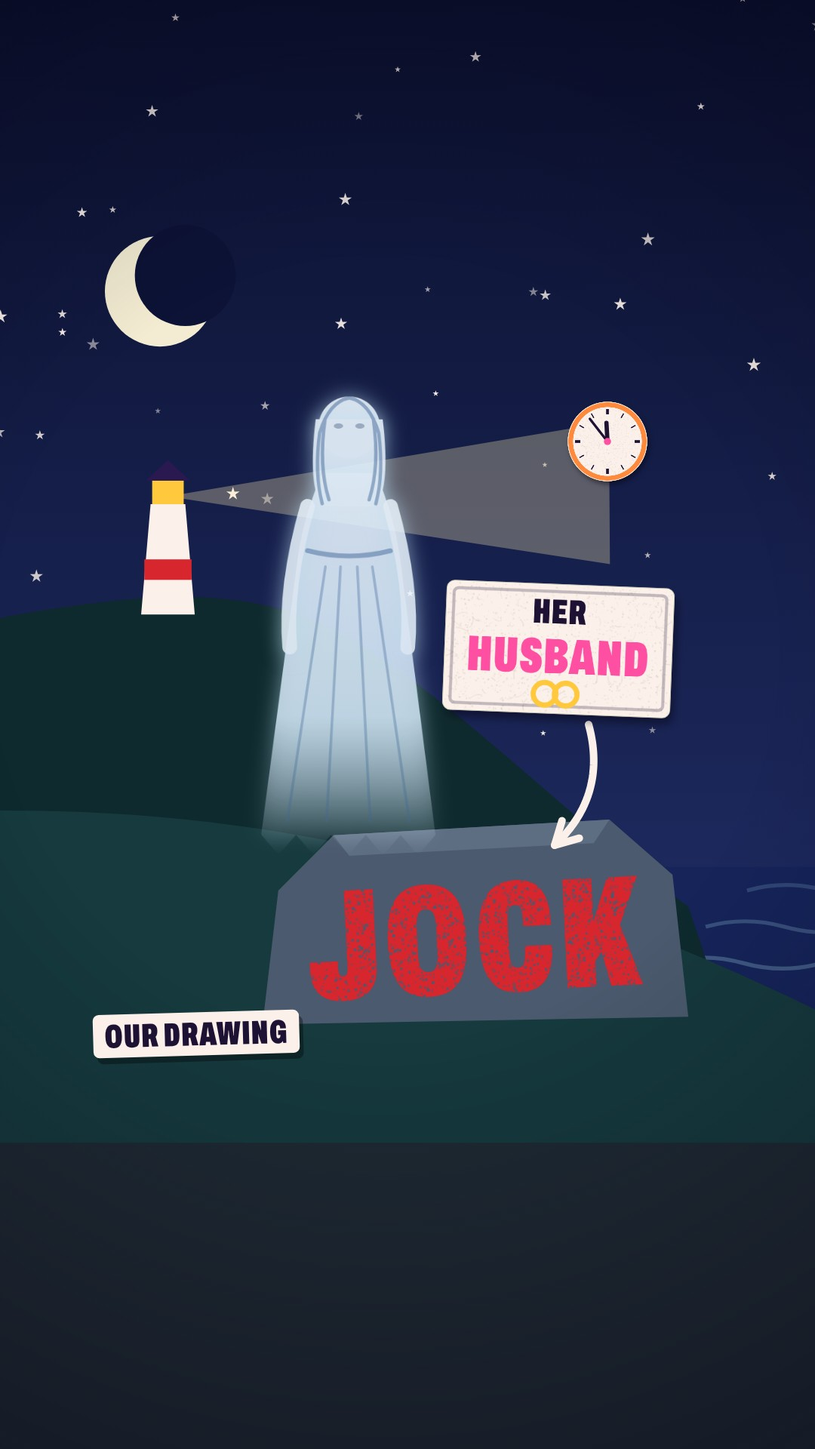
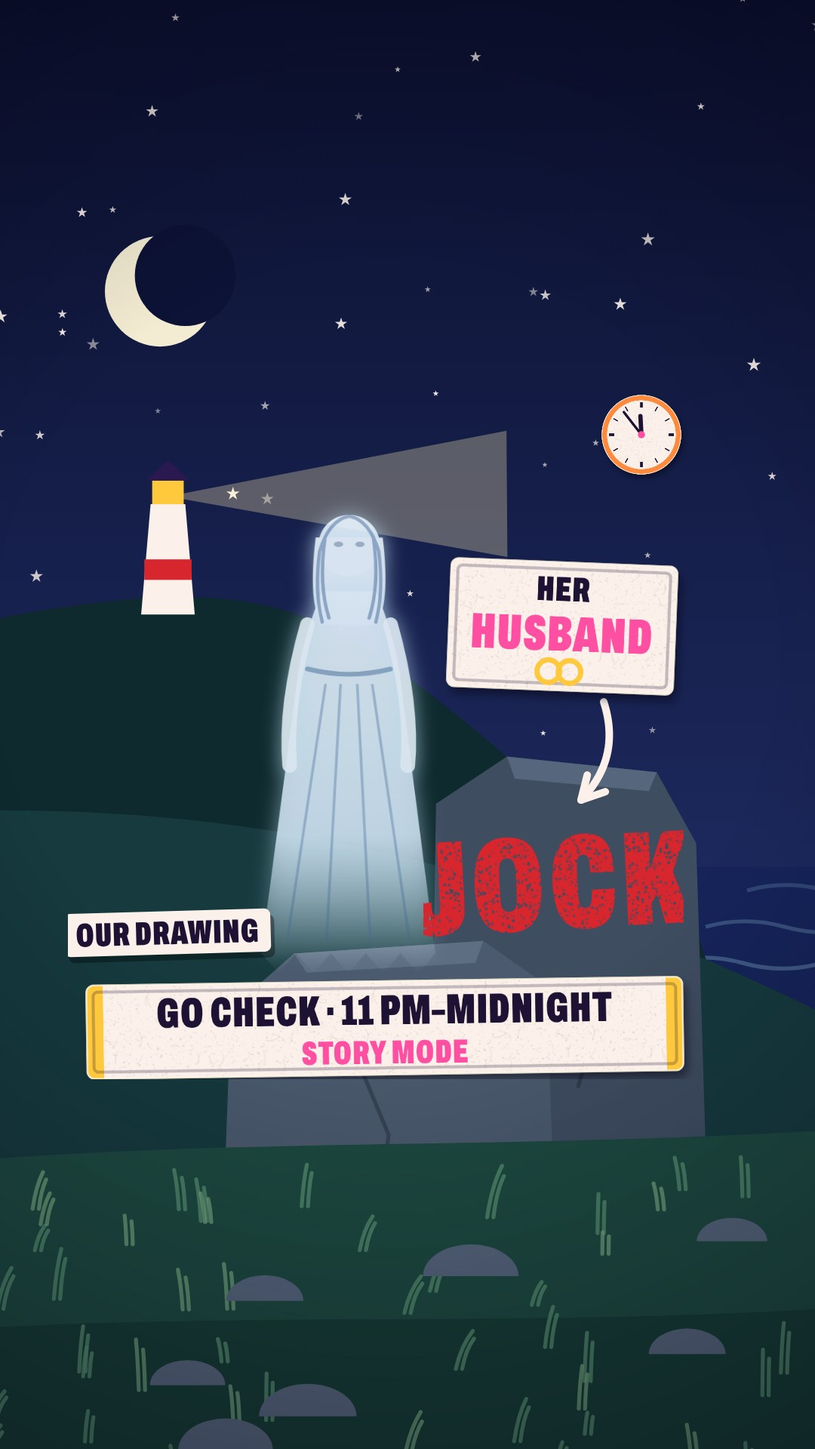
Delta: gta-secrets fresh jury r3 7.5/Truth 8.5 PASS, r3 picture fixes applied; queued for Sun Nov 15 23:00 ET
Claude-Session: https://claude.ai/code/session_0183o4NZ6CSecHxPQVo1mXv7

diff --git a/film/gta-secrets/film.js b/film/gta-secrets/film.js
@@ -500,7 +500,9 @@
     if (L === 'bg') {
       iceSheet(g, -200, -200, 1280, 2120, 3, '#f2fdff', '#9ee3f3');
       /* the dark shape under the ice: big, near-black, hard-edged (jury r1: 85 % ink, 6 px blur) */
-      g.save(); g.globalAlpha = .88; g.translate(510, 1010 + 6 * osc(t, 2, 1)); g.rotate(-.12); g.drawImage(P.alienDark, -350 * 1.15, -470 * 1.15, 700 * 1.15, 900 * 1.15); g.fillStyle = 'rgba(244,236,214,.7)'; [[-58, -215, .5], [52, -215, -.5]].forEach(function (e) { g.save(); g.translate(e[0] * 1.15, e[1] * 1.15); g.rotate(e[2]); g.beginPath(); g.ellipse(0, 0, 30, 11, 0, 0, TAU); g.fill(); g.restore(); }); g.restore();
+      /* jury r3: no eye highlights (an unreadable shape until ice2), and it is gone by 1.9 s so the 3 SECRETS card never stands on its legs */
+      var af = 1 - sm(t, T.sec - .08, .5);
+      if (af > 0) { g.save(); g.globalAlpha = .88 * af; g.translate(510, 1010 + 6 * osc(t, 2, 1)); g.rotate(-.12); g.drawImage(P.alienDark, -350 * 1.15, -470 * 1.15, 700 * 1.15, 900 * 1.15); g.restore(); }
       /* a pale film of ice over it */
       g.fillStyle = 'rgba(226,248,255,.08)'; g.fillRect(-200, -200, 1480, 2320);
       /* the torch pool glides in from the left and settles on the shape on "secrets" */
@@ -599,7 +601,7 @@
   function ovBridge(g, t) {
     chipIn(g, t, 'FIRST MISSION', 330, 570, T.ch1a, T.ch1out, { bg: HOT, px: 52, rot: -.03, from: -30 });
     chipIn(g, t, 'NORTH YANKTON', 640, 660, T.ch1b, T.ch1out, { bg: TEAL, px: 52, rot: .02, from: -30, ph: 2 });
-    chipIn(g, t, 'OUR DRAWING', 720, 1370, T.our1, T.F2.drop - .05, { bg: CREAM, px: 44, rot: .03, from: 30 });
+    chipIn(g, t, 'OUR DRAWING', 228, 1352, T.our1, T.F2.drop - .05, { bg: CREAM, px: 44, rot: .02, from: 30 });
     /* jury r1: the stamp lands on the first hit and is gone before the SECRET 2 sheet arrives (it sits under the foil layer too) */
     stampAt(g, t, P.stNo, 510, 760, T.HITS[0], T.F2.drop - .05, -.06, 1);
   }
@@ -641,9 +643,9 @@
   var MB = [[230, 860], [410, 860], [610, 860], [790, 860]], MS = [[250, 1175], [510, 1175], [770, 1175]];
   function wMural(g, t, L) {
     if (L === 'bg') {
-      g.fillStyle = '#6d5a73'; g.fillRect(-600, -1260, 2280, 4400);
+      g.fillStyle = '#6d5a73'; g.fillRect(-1200, -1260, 3600, 4400);
       var r = mulberry(61); g.strokeStyle = 'rgba(30,20,40,.25)'; g.lineWidth = 3;
-      for (var y = -1260; y < 3140; y += 70) { g.beginPath(); g.moveTo(-600, y); g.lineTo(1680, y); g.stroke(); for (var x = -600 + ((y + 1260) / 70 % 2) * 70; x < 1680; x += 140) { g.beginPath(); g.moveTo(x, y); g.lineTo(x, y + 70); g.stroke(); } }
+      for (var y = -1260; y < 3140; y += 70) { g.beginPath(); g.moveTo(-1200, y); g.lineTo(2400, y); g.stroke(); for (var x = -1200 + ((y + 1260) / 70 % 2) * 70; x < 2400; x += 140) { g.beginPath(); g.moveTo(x, y); g.lineTo(x, y + 70); g.stroke(); } }
       /* the painted wall panel */
       g.fillStyle = STONE; g.fillRect(110, 470, 800, 900); g.fillStyle = 'rgba(0,0,0,.18)'; g.fillRect(110, 1370, 800, 12);
       for (var i = 0; i < 900; i++) { g.fillStyle = 'rgba(90,70,50,' + (.03 + r() * .08).toFixed(3) + ')'; g.fillRect(110 + r() * 800, 470 + r() * 900, 2 + r() * 6, 2 + r() * 6); }
@@ -674,26 +676,24 @@
       if (t >= q[0] && t < q[0] + .45) KIT.impact(g, b[0], b[1], t - q[0], .55, HOT);
     });
     if (t >= T.jq - .02 && t < T.n3 + .45) { g.save(); g.globalAlpha *= 1 - sm(t, T.n3 + .15, .25); slam(g, '?', 858, 1080, 150, t - T.jq, { col: TEAL, lw: 13, rot: .12 + .03 * osc(t, 9, 2) }); g.restore(); }
-    /* mur3: pins and red string out to the fan theories */
-    if (t >= T.n1 - .02) {
-      /* jury r2: only readings the sources report (BRIEF facts 7 and 11): 100% completion (PC Gamer 2016, GamesRadar+ 2025) and "just put in there to mess with people" (Hinchliffe, GamesRadar+ 2024) */
-      var NOTES = [[T.n1, P.th1, 300, 993, -.02], [T.n2, P.th2, 720, 993, .02]];
-      NOTES.forEach(function (n) {
-        if (t < n[0] - .02) return; var k = sm(t, n[0], .3), jig = t >= T.argue ? .06 * Math.exp(-(t - T.argue) * 3) * Math.sin((t - T.argue) * 30) : 0;
-        g.save(); g.strokeStyle = RED; g.lineWidth = 6; g.beginPath(); g.moveTo(510, 770); g.lineTo(lerp(510, n[2], k), lerp(770, n[3] - 62, k)); g.stroke(); g.restore();
-        if (k >= 1) {
-          var s = kn(t, n[0] + .3, .08); g.save(); g.translate(n[2], n[3]); g.rotate(n[4] + jig); g.scale(s, s); NOREC = nr || t < n[0] + .4; putW(g, n[1], 0, 0); NOREC = nr; g.restore();
-          g.fillStyle = RED; circle(g, n[2], n[3] - 62, 12); g.fill(); g.fillStyle = 'rgba(255,255,255,.5)'; circle(g, n[2] - 4, n[3] - 66, 4); g.fill();
-        }
-        g.fillStyle = RED; circle(g, 510, 770, 12); g.fill();
-      });
-    }
   }
   function ovMural(g, t) {
     var zo = sm(t, T.mzo, .45);
-    chipIn(g, t, 'OUR DRAWING · AS PC GAMER DESCRIBES IT', 510, lerp(1360, 1222, zo), T.ourM, T.F3.drop + .3, { bg: CREAM, px: 40, from: 30 });
-    /* jury r2: clear of the caption tape (≥ 16 px), tucked on the board's top edge */
-    chipIn(g, t, 'FAN THEORIES', 510, 568, T.fan, T.F3.drop + .3, { bg: HOT, px: 52, rot: -.03, from: -30 });
+    chipIn(g, t, 'OUR DRAWING · AS PC GAMER DESCRIBES IT', 510, lerp(1360, 1150, zo), T.ourM, T.F3.drop + .3, { bg: CREAM, px: 40, from: 30 });
+    /* jury r3: the board steps back to the left and the two readings hang beside it at full size, on red string from the eye,
+       each with its own source: FAN THEORIES over 100% completion; Ben Hinchliffe (ex-Rockstar, GamesRadar+ 2024) over "mess with you" */
+    if (t >= T.n1 - .02 && t < T.F3.drop + .35) {
+      var C = camOf('mural', t), ex = C.cx + C.dx + (906 - C.cx) * C.s, ey = C.cy + C.dy + (680 - C.cy) * C.s, nr0 = NOREC;
+      [[T.n1, P.th1, 745, 735, -.02], [T.n2, P.th2, 745, 985, .02]].forEach(function (n) {
+        if (t < n[0] - .02) return; var k = sm(t, n[0], .3), jig = t >= T.argue ? .06 * Math.exp(-(t - T.argue) * 3) * Math.sin((t - T.argue) * 30) : 0, px = n[2] - 176, py = n[3] + 10;
+        g.save(); g.globalAlpha *= 1 - sm(t, T.F3.drop + .1, .2); g.strokeStyle = RED; g.lineWidth = 5; g.beginPath(); g.moveTo(ex, ey); g.lineTo(lerp(ex, px, k), lerp(ey, py, k)); g.stroke();
+        if (k >= 1) {
+          var s1 = kn(t, n[0] + .3, .08); g.save(); g.translate(n[2], n[3]); g.rotate(n[4] + jig); g.scale(s1, s1); NOREC = nr0 || t < n[0] + .4; putW(g, n[1], 0, 0); NOREC = nr0; g.restore();
+          g.fillStyle = RED; circle(g, px, py, 12); g.fill(); g.fillStyle = 'rgba(255,255,255,.5)'; circle(g, px - 4, py - 4, 4); g.fill();
+        }
+        g.fillStyle = RED; circle(g, ex, ey, 11); g.fill(); g.restore();
+      });
+    }
     /* jury r1: the stake, sourced (GamesRadar+, 2024-11-05: a 44,000-member subreddit, "no one is giving up"); slaps on at "44,000", pinned in the gap after "argue" */
     if (t >= T.n44 - .02 && t < T.F3.drop + .4) {
       var k = cd(t, T.n44, 13), nr = NOREC, pk = cd(t, T.pinT, 18), jg = t >= T.pinT ? .05 * Math.exp(-(t - T.pinT) * 5) * Math.sin((t - T.pinT) * 34) : 0;
@@ -716,7 +716,8 @@
 
   /* =========================== WORLD 5: Mount Gordo at night, the ghost =========================== */
   var STARS = (function () { var r = mulberry(88), s = []; for (var i = 0; i < 60; i++) s.push([r() * 1380 - 150, r() * 1100 - 100, 2 + r() * 4, r() * TAU, 1 + Math.floor(r() * 4)]); return s; })();
-  var RKY = 1180;
+  /* jury r3: the ghost and her rock sit 150 px lower; JOCK is painted on a standing stone beside her (JX, JY) */
+  var RKY = 1330, JX = 724, JY = 1170;
   function wNight(g, t, L) {
     if (L === 'bg') {
       var gr = g.createLinearGradient(0, -200, 0, 1500); gr.addColorStop(0, '#070b24'); gr.addColorStop(1, '#22306b'); g.fillStyle = gr; g.fillRect(-300, -300, 1680, 2620);
@@ -727,17 +728,26 @@
       for (var i = 0; i < 9; i++) { var y = 1180 + i * 46, x = (i * 173 + 120 * t * (1 + i % 3) / 4) % 400 - 400; g.strokeStyle = 'rgba(159,211,230,' + (.2 + .05 * (i % 3)) + ')'; g.lineWidth = 5; for (var xx = x; xx < 1500; xx += 400) { g.beginPath(); g.moveTo(xx, y); g.quadraticCurveTo(xx + 50, y - 14, xx + 100, y); g.quadraticCurveTo(xx + 150, y + 14, xx + 200, y); g.stroke(); } }
       /* Mount Gordo: a dark headland on the left with the lighthouse */
       g.fillStyle = '#0f2a2e'; g.beginPath(); g.moveTo(-300, 1500); g.lineTo(-300, 900); g.bezierCurveTo(100, 820, 300, 760, 470, 860); g.bezierCurveTo(620, 950, 760, 1100, 900, 1200); g.lineTo(1000, 1500); g.closePath(); g.fill();
-      g.fillStyle = '#163a3e'; g.beginPath(); g.moveTo(-300, 1700); g.lineTo(-300, 1100); g.bezierCurveTo(200, 1040, 600, 1100, 1100, 1350); g.lineTo(1380, 1700); g.closePath(); g.fill();
-      g.fillStyle = '#1f2a33'; g.fillRect(-300, 1500, 1680, 900);
-      /* the rock the ghost stands on */
-      g.fillStyle = '#4b5a6e'; g.beginPath(); g.moveTo(380, RKY); g.lineTo(450, RKY - 70); g.lineTo(800, RKY - 90); g.lineTo(880, RKY - 20); g.lineTo(900, RKY + 160); g.lineTo(360, RKY + 170); g.closePath(); g.fill();
-      g.fillStyle = '#5d6d82'; g.beginPath(); g.moveTo(450, RKY - 70); g.lineTo(800, RKY - 90); g.lineTo(780, RKY - 60); g.lineTo(470, RKY - 44); g.closePath(); g.fill();
+      g.fillStyle = '#163a3e'; g.beginPath(); g.moveTo(-300, 2400); g.lineTo(-300, 1100); g.bezierCurveTo(200, 1040, 600, 1100, 1100, 1350); g.lineTo(1380, 1500); g.lineTo(1380, 2400); g.closePath(); g.fill();
+      /* the standing stone JOCK is painted on, and the low rock the ghost stands on; both run down out of the frame */
+      g.fillStyle = '#3f4d61'; g.beginPath(); g.moveTo(580, JY - 100); g.lineTo(670, JY - 160); g.lineTo(860, JY - 140); g.lineTo(910, JY - 50); g.lineTo(950, 2400); g.lineTo(560, 2400); g.closePath(); g.fill();
+      g.fillStyle = '#56667c'; g.beginPath(); g.moveTo(670, JY - 160); g.lineTo(860, JY - 140); g.lineTo(850, JY - 116); g.lineTo(680, JY - 132); g.closePath(); g.fill();
+      g.fillStyle = '#4b5a6e'; g.beginPath(); g.moveTo(320, RKY); g.lineTo(400, RKY - 70); g.lineTo(640, RKY - 86); g.lineTo(720, RKY - 30); g.lineTo(760, 2400); g.lineTo(280, 2400); g.closePath(); g.fill();
+      g.fillStyle = '#5d6d82'; g.beginPath(); g.moveTo(400, RKY - 70); g.lineTo(640, RKY - 86); g.lineTo(630, RKY - 58); g.lineTo(416, RKY - 46); g.closePath(); g.fill();
+      g.strokeStyle = 'rgba(20,28,40,.35)'; g.lineWidth = 5; g.beginPath(); g.moveTo(470, RKY + 40); g.lineTo(520, RKY + 160); g.lineTo(500, RKY + 300); g.moveTo(800, JY + 120); g.lineTo(760, JY + 260); g.stroke();
+      /* jury r3: the foreground bank fills the bottom of the frame (grass in the wind, a few stones) instead of a flat navy floor */
+      g.fillStyle = '#1d4a40'; g.beginPath(); g.moveTo(-300, 1560); g.bezierCurveTo(200, 1470, 700, 1530, 1380, 1460); g.lineTo(1380, 2400); g.lineTo(-300, 2400); g.closePath(); g.fill();
+      g.fillStyle = '#163d35'; g.beginPath(); g.moveTo(-300, 1760); g.bezierCurveTo(300, 1690, 800, 1760, 1380, 1680); g.lineTo(1380, 2400); g.lineTo(-300, 2400); g.closePath(); g.fill();
+      var rg = mulberry(140); g.lineCap = 'round';
+      for (var gi = 0; gi < 70; gi++) { var gx = -100 + rg() * 1280, gy = 1540 + rg() * 520, gh = 26 + rg() * 40, lean = 14 * osc(t, 4, gx * .01) + 8; g.strokeStyle = gi % 3 ? 'rgba(84,140,110,.8)' : 'rgba(120,170,130,.7)'; g.lineWidth = 5;
+        g.beginPath(); g.moveTo(gx, gy); g.quadraticCurveTo(gx + lean * .3, gy - gh * .6, gx + lean, gy - gh); g.moveTo(gx + 8, gy); g.quadraticCurveTo(gx + 8 + lean * .2, gy - gh * .5, gx + 8 + lean * .7, gy - gh * .8); g.stroke(); }
+      for (gi = 0; gi < 9; gi++) { var sx2 = -60 + rg() * 1200, sy2 = 1600 + rg() * 420, sr = 16 + rg() * 26; g.fillStyle = '#56667c'; g.beginPath(); g.ellipse(sx2, sy2, sr * 1.5, sr, 0, Math.PI, TAU); g.fill(); }
       return;
     }
     /* the lighthouse and its sweeping beam (a flat paper wedge) */
     var lx = 240, ly = 830;
     var ba = .45 * Math.sin(TAU * 2 * t / DUR * 3), bk = .22 + .1 * Math.sin(t * 2);
-    g.save(); g.translate(lx, ly - 150); g.rotate(ba); g.fillStyle = 'rgba(255,240,180,' + bk.toFixed(3) + ')'; g.beginPath(); g.moveTo(0, 0); g.lineTo(560, -90); g.lineTo(560, 90); g.closePath(); g.fill(); g.restore();
+    g.save(); g.translate(lx, ly - 150); g.rotate(ba); g.fillStyle = 'rgba(255,240,180,' + bk.toFixed(3) + ')'; g.beginPath(); g.moveTo(0, 0); g.lineTo(430, -80); g.lineTo(430, 80); g.closePath(); g.fill(); g.restore();
     g.fillStyle = CREAM; g.beginPath(); g.moveTo(lx - 34, ly); g.lineTo(lx - 22, ly - 140); g.lineTo(lx + 22, ly - 140); g.lineTo(lx + 34, ly); g.closePath(); g.fill();
     g.fillStyle = RED; g.fillRect(lx - 30, ly - 70, 60, 26); g.fillStyle = GOLD; g.fillRect(lx - 20, ly - 170, 40, 30); g.fillStyle = INK2; g.beginPath(); g.moveTo(lx - 28, ly - 170); g.lineTo(lx, ly - 196); g.lineTo(lx + 28, ly - 170); g.closePath(); g.fill();
     /* the ghost */
@@ -748,27 +758,31 @@
     /* JOCK, brushed in red paint across the rock face */
     if (t >= T.jock - .02 && t < T.mid + .4) {
       var pk = seg(t, T.jock, T.jock + .38), jf = t >= T.mid - .2 ? (Math.sin((t - T.mid) * 70 + 1) > 0 ? 1 : .35) * (1 - seg(t, T.mid, T.mid + .32)) : 1;
-      g.save(); g.globalAlpha *= jf; g.beginPath(); g.rect(370, RKY - 120, 520 * pk + 10, 320); g.clip(); var nr = NOREC; NOREC = nr || pk < 1; putW(g, P.jock, 630, RKY + 60); NOREC = nr; g.restore();
-      if (pk > 0 && pk < 1) { g.save(); g.translate(380 + 500 * pk, RKY + 40 + 30 * Math.sin(pk * 9)); g.rotate(.7); g.fillStyle = '#6b4a2a'; g.fillRect(-10, -120, 20, 110); g.fillStyle = RED; rr(g, -18, -14, 36, 40, 8); g.fill(); g.restore(); }
+      g.save(); g.globalAlpha *= jf; g.beginPath(); g.rect(JX - 160, JY - 120, 320 * pk + 10, 240); g.clip(); var nr = NOREC; NOREC = nr || pk < 1; putW(g, P.jock, JX, JY); NOREC = nr; g.restore();
+      if (pk > 0 && pk < 1) { g.save(); g.translate(JX - 150 + 300 * pk, JY - 20 + 30 * Math.sin(pk * 9)); g.rotate(.7); g.fillStyle = '#6b4a2a'; g.fillRect(-10, -120, 20, 110); g.fillStyle = RED; rr(g, -18, -14, 36, 40, 8); g.fill(); g.restore(); }
     }
   }
   function ovNight(g, t) {
     if (t >= T.E0) return;
     chipIn(g, t, 'MOUNT GORDO', 300, 1360, T.ch3, T.gz + .2, { bg: TEAL, px: 58, rot: -.03, from: 40 });
     /* jury r2: every secret is tagged the same way */
-    chipIn(g, t, 'OUR DRAWING', 260, 1370, T.gz + .45, T.E0 - .1, { bg: CREAM, px: 44, rot: -.02, from: 30 });
+    chipIn(g, t, 'OUR DRAWING', 222, 1236, T.gz + .45, T.E0 - .1, { bg: CREAM, px: 44, rot: -.02, from: 30 });
     /* the clock: hands spin to 11:00 and land on "eleven" */
     clock11(g, t);
     /* gho3: an arrow from the tag to JOCK, the tag HER HUSBAND with two rings */
-    if (t >= T.arr - .02 && t < T.mid + .3) { g.save(); g.globalAlpha *= 1 - seg(t, T.mid, T.mid + .25); KIT.arrow(g, 780, 960, 735, 1120, sm(t, T.arr, .3), CREAM, 10, -.3); g.restore(); }
+    if (t >= T.arr - .02 && t < T.mid + .3) { g.save(); g.globalAlpha *= 1 - seg(t, T.mid, T.mid + .25); KIT.arrow(g, 800, 930, 770, 1060, sm(t, T.arr, .3), CREAM, 10, -.3); g.restore(); }
+    /* jury r3: the takeaway, the DM-able task: go and look tonight */
+    if (t >= T.plate - .02) {
+      var pk2 = cd(t, T.plate, 12), nr3 = NOREC; g.save(); g.translate(510, 1362 + (1 - pk2) * 70); g.rotate(-.015); g.globalAlpha *= fin(t, T.plate, .1) * (1 - seg(t, T.E0 - .1, T.E0)); var ps2 = kn(t, T.plate + .1, .05); g.scale(ps2, ps2); NOREC = nr3 || pk2 < .98; putW(g, P.plate, 0, 0); NOREC = nr3; g.restore();
+    }
     if (t >= T.husb - .02) {
       /* held still (no sway) so the screenshot reads */
-      var hk = cd(t, T.husb, 13), nr2 = NOREC; g.save(); g.translate(740, 860 + (1 - hk) * -40); g.rotate(.04); g.globalAlpha *= fin(t, T.husb, .08); NOREC = nr2 || hk < .98; putW(g, P.husb, 0, 0); NOREC = nr2; g.restore();
+      var hk = cd(t, T.husb, 13), nr2 = NOREC; g.save(); g.translate(745, 830 + (1 - hk) * -40); g.rotate(.04); g.globalAlpha *= fin(t, T.husb, .08); NOREC = nr2 || hk < .98; putW(g, P.husb, 0, 0); NOREC = nr2; g.restore();
     }
   }
   function clock11(g, t) {
     if (t < T.clk0 - .02 || t >= T.E0) return;
-    var k = cd(t, T.clk0, 10), o = sm(t, T.clkOut, .4), x = lerp(760, 805, o), y = lerp(610, 585, o), s = lerp(.4, .82, k) * lerp(1, .58, o) * kn(t, T.mid, .12);
+    var k = cd(t, T.clk0, 10), o = sm(t, T.clkOut, .4), x = lerp(790, 850, o), y = lerp(610, 576, o), s = lerp(.4, .82, k) * lerp(1, .58, o) * kn(t, T.mid, .12);
     g.save(); g.globalAlpha *= fin(t, T.clk0, .1); g.translate(x, y); g.scale(s, s); put(g, P.clockFace, 0, 0);
     if (t >= T.mid) { g.strokeStyle = HOT; g.lineWidth = 14; g.globalAlpha *= 1 - seg(t, T.mid, T.mid + .5); circle(g, 0, 0, 110 + 90 * eo(seg(t, T.mid, T.mid + .5))); g.stroke(); g.globalAlpha = 1; }
     /* the minute hand turns five times from 6:00 and lands on 12 at 11:00, creeps through the hour, and strikes 12:00 at midnight (jury r1) */
@@ -778,8 +792,8 @@
     g.lineWidth = 7; g.beginPath(); g.moveTo(0, 0); g.lineTo(Math.cos(am) * 80, Math.sin(am) * 80); g.stroke(); g.fillStyle = HOT; circle(g, 0, 0, 10); g.fill();
     g.restore();
     /* the time tag pops only once the hands have landed */
-    chipIn(g, t, '11 PM', 760, 770, T.c11, T.clkOut, { bg: GOLD, px: 64, rot: -.03, from: -20 });
-    chipIn(g, t, 'GAME TIME', 760, 850, T.c11 + .12, T.clkOut, { bg: CREAM, px: 42, rot: .02, from: -20, ph: 3 });
+    chipIn(g, t, '11 PM', 790, 770, T.c11, T.clkOut, { bg: GOLD, px: 64, rot: -.03, from: -20 });
+    chipIn(g, t, 'GAME TIME', 790, 850, T.c11 + .12, T.clkOut, { bg: CREAM, px: 42, rot: .02, from: -20, ph: 3 });
   }
 
   /* =========================== WORLD 6: GTA 6, Nov 19 2026 =========================== */
@@ -805,14 +819,22 @@
       if (t >= T.coinE - .02) { var ck = cd(t, T.coinE, 10); g.save(); ownClip(g); g.translate(lerp(1000, 812, ck) + 10 * Math.sin(t * 6), 1200 + 14 * Math.sin(t * 4.6)); g.rotate(-.5 + .2 * Math.sin(t * 5)); g.scale(1.2, 1.2); put(g, P.coin, 0, 0); g.restore(); }
     }
   }
-  /* small torn calendar pages drifting down behind the page (time passing) */
+  /* jury r3: not launch confetti: ice flecks and scratch-off foil dust drift down behind the page (the film's own materials) */
   function endDrift(g, t) {
-    var cols = [HOT, TEAL, ORG, GOLD];
-    for (var i = 0; i < 7; i++) {
-      var sp = 1 + (i % 2), ph = hash(i + 5) * TAU, x = 150 + (i * 113 + hash(i) * 60) % 720 + 26 * osc(t, 3 * sp, ph), y = 300 + ((hash(i + 9) * 1130 + 1130 * sp * 3 * t / DUR) % 1130);
-      g.save(); g.globalAlpha = .55; g.translate(x, y); g.rotate(.5 * osc(t, 2 * sp, ph)); g.scale(.9 * Math.cos(TAU * 4 * sp * t / DUR + ph), .9);
-      g.fillStyle = '#f4ead6'; g.fillRect(-26, -32, 52, 64); g.fillStyle = cols[i % 4]; g.fillRect(-26, -32, 52, 11);
-      g.fillStyle = 'rgba(29,18,51,.25)'; g.fillRect(-16, -10, 32, 4); g.fillRect(-16, 2, 22, 4); g.restore();
+    var fc = FOILCFG[1].g;
+    for (var i = 0; i < 24; i++) {
+      var sp = 1 + (i % 3), ph = hash(i + 5) * TAU, x = 130 + hash(i) * 760 + 24 * osc(t, 3 * sp, ph), y = 300 + ((hash(i + 9) * 1130 + 1130 * sp * 2 * t / DUR) % 1130), sz = 7 + hash(i + 3) * 9;
+      g.save(); g.globalAlpha = .75; g.translate(x, y); g.rotate(.8 * osc(t, 2 * sp, ph));
+      if (i % 3 === 0) {
+        /* an ice fleck: a three-stroke crystal */
+        g.strokeStyle = 'rgba(238,248,255,.95)'; g.lineWidth = 3; g.lineCap = 'round';
+        for (var k = 0; k < 3; k++) { var an = k * Math.PI / 3; g.beginPath(); g.moveTo(-Math.cos(an) * sz, -Math.sin(an) * sz); g.lineTo(Math.cos(an) * sz, Math.sin(an) * sz); g.stroke(); }
+      } else {
+        /* a foil flake turning over */
+        g.scale(Math.cos(TAU * 5 * sp * t / DUR + ph), 1); g.fillStyle = fc[i % 2 ? 1 : 0]; g.strokeStyle = 'rgba(20,22,40,.5)'; g.lineWidth = 2;
+        g.beginPath(); g.moveTo(-sz, -sz * .4); g.lineTo(sz * .7, -sz * .6); g.lineTo(sz, sz * .35); g.lineTo(-sz * .5, sz * .55); g.closePath(); g.fill(); g.stroke();
+      }
+      g.restore();
     }
   }
   /* a torn calendar page sweeping up: the night → GTA 6 change */
@@ -829,10 +851,12 @@
   /* ---------- textures ---------- */
   function buildTextures() {
     GRAIN = buildGrain();
-    P.alien = paperFrost(alienCanvas('#9bb39a', '#2c3a3a', '#141a24')); P.alienBlur = blurred(P.alien, 9); P.alienDark = blurred(alienCanvas('#000', '#000', null), 6, '#081128');
+    P.alien = paperFrost(alienCanvas('#9bb39a', '#2c3a3a', '#141a24')); P.alienBlur = blurred(P.alien, 9); P.alienDark = blurred(alienCanvas('#000', '#000', null), 12, '#081128');
     P.ghost = ghostCanvas(); P.coin = coinPiece();
     P.foil = [1, 2, 3].map(foilCanvas); FC = mk(W, H); FG = FC.getContext('2d');
-    P.ticket = cardPiece(760, 900, CREAM, [['3 SECRETS', 92, INK, -372], ['GTA 5 · 2013', 50, HOT, 382]], { r: 18, ring: 'rgba(29,18,51,.25)', before: function (g) {
+    P.ticket = cardPiece(760, 900, CREAM, [['3 SECRETS', 92, INK, -372], ['GTA 5 · 2013', 50, HOT, 382, null, -150], ['STORY MODE', 42, INK, 384, null, 170]], { r: 18, ring: 'rgba(29,18,51,.25)', before: function (g) {
+      /* jury r3: the version caveat, a teal chip beside the year */
+      g.fillStyle = TEAL; rr(g, 170 - 118, 382 - 31, 236, 62, 10); g.fill();
       g.fillStyle = HOT; g.fillRect(-380, -450, 760, 20); g.fillStyle = TEAL; g.fillRect(-380, 430, 760, 20);
       g.fillStyle = 'rgba(29,18,51,.05)'; for (var y = -450; y < 450; y += 12) g.fillRect(-380, y, 760, 1);
     } });
@@ -840,13 +864,14 @@
     P.stNo = buildStamp(['NO', 'CRACK'], 120, 420);
     /* JOCK in red paint: hand-lettered, speckled like a brush on stone; no drips */
     var jrec = [];
-    P.jock = piece([-250, -110, 250, 110], rect(-250, -110, 250, 110), 'rgba(0,0,0,0)', { shadow: false, edge: false, grain: 0, extra: function (g) {
-      var tw = inkText(g, 'JOCK', 0, 0, 200, RED, 141, { dense: 30, big: 1.8, ls: 4, rot: -.05 }); jrec.push([-tw / 2, -100, tw / 2, 90, 'JOCK']);
+    P.jock = piece([-210, -100, 210, 100], rect(-210, -100, 210, 100), 'rgba(0,0,0,0)', { shadow: false, edge: false, grain: 0, extra: function (g) {
+      var tw = inkText(g, 'JOCK', 0, 0, 170, RED, 141, { dense: 30, big: 1.8, ls: 4, rot: -.05 }); jrec.push([-tw / 2, -86, tw / 2, 78, 'JOCK']);
     } });
     wordsOf(P.jock, jrec);
     P.note44 = cardPiece(720, 160, '#fff1a1', [['44,000 JOINED THE HUNT', 60, INK, -22], ['SUBREDDIT · GAMESRADAR, NOV 2024', 38, INK2, 44, 'condensed']], { r: 4, ring: 'rgba(29,18,51,.2)', before: function (g) { g.fillStyle = 'rgba(160,120,0,.12)'; g.fillRect(-360, -80, 720, 26); } });
-    P.th1 = cardPiece(370, 136, GOLD, [['100%', 56, INK, -24], ['COMPLETION?', 56, INK, 34]], { r: 6, ring: 'rgba(29,18,51,.25)' });
-    P.th2 = cardPiece(390, 136, GOLD, [['JUST TO MESS', 56, INK, -24], ['WITH YOU?', 56, INK, 34]], { r: 6, ring: 'rgba(29,18,51,.25)' });
+    P.th1 = cardPiece(356, 210, GOLD, [['FAN THEORIES', 34, CREAM, -76], ['100%', 54, INK, -12], ['COMPLETION?', 54, INK, 50]], { r: 6, ring: 'rgba(29,18,51,.25)', before: function (g) { g.fillStyle = HOT; g.fillRect(-178, -105, 356, 58); } });
+    P.th2 = cardPiece(356, 210, GOLD, [['EX-ROCKSTAR DEV, 2024', 31, INK, -76], ['JUST TO MESS', 54, INK, -12], ['WITH YOU?', 54, INK, 50]], { r: 6, ring: 'rgba(29,18,51,.25)', before: function (g) { g.fillStyle = TEAL; g.fillRect(-178, -105, 356, 58); } });
+    P.plate = cardPiece(790, 124, CREAM, [['GO CHECK · 11 PM–MIDNIGHT', 56, INK, -22], ['STORY MODE', 44, HOT, 34]], { r: 10, ring: 'rgba(29,18,51,.25)', before: function (g) { g.fillStyle = GOLD; g.fillRect(-395, -62, 22, 124); g.fillRect(373, -62, 22, 124); } });
     P.husb = cardPiece(300, 170, CREAM, [['HER', 46, INK, -48], ['HUSBAND', 66, HOT, 12]], { r: 10, ring: 'rgba(29,18,51,.25)', after: function (g) { g.strokeStyle = GOLD; g.lineWidth = 7; circle(g, -16, 60, 15); g.stroke(); circle(g, 12, 60, 15); g.stroke(); } });
     P.clockFace = piece([-112, -112, 112, 112], function (g) { g.beginPath(); g.arc(0, 0, 110, 0, TAU); }, CREAM, { sx: 5, sy: 9, blur: 14, extra: function (g) {
       g.strokeStyle = ORG; g.lineWidth = 14; g.beginPath(); g.arc(0, 0, 103, 0, TAU); g.stroke();
@@ -883,7 +908,7 @@
     if (w === 'ice') { c.s = 1.06 - .06 * sm(t, -.2, 2.4); c.cy = 1000; c.dy = 340 * (1 - eo(seg(t, -.25, 1.5))); }
     else if (w === 'bridge') { var k = sm(t, T.camD, .8); c.s = 1 + .32 * k; c.cy = 1400; c.dy = -260 * k; c.dx = 10 * osc(t, 2, 0); }
     else if (w === 'mount') { var z = eio(seg(t, T.mz - .7, T.mz)); c.s = (1 + .04 * seg(t, T.F2.drop, T.mz)) * (1 + 1.6 * z * z); c.cx = 720; c.cy = 600; c.dx = -210 * z; c.dy = 300 * z; }
-    else if (w === 'mural') { var s0 = lerp(1.3, 1, cd(t, T.mz, 8)), z2 = sm(t, T.mzo, .45); c.s = lerp(s0, .66, z2); c.cy = 470; c.dy = lerp(430 * (1 - s0), 130, z2); }
+    else if (w === 'mural') { var s0 = lerp(1.3, 1, cd(t, T.mz, 8)), z2 = sm(t, T.mzo, .45); c.s = lerp(s0, .56, z2); c.cy = 470; c.dy = lerp(430 * (1 - s0), 130, z2); c.dx = -186 * z2; }
     else if (w === 'night') { c.s = 1 + .05 * sm(t, T.gz, 1.2); c.cx = 630; c.cy = 1180; }
     return c;
   }
@@ -985,7 +1010,7 @@
     function Tx(id, text, a, b) { if (t >= a && t < b) o.push({ id: id, text: text, x0: 0, y0: 0, x1: 0, y1: 0 }); }
     Tx('gta5', 'GTA 5', 0, T.dim0); Tx('gta5', 'GTA 5', T.W5 + .1, DUR + 1);
     Tx('hides', 'STILL HIDES THIS', 0, T.dim0); Tx('hides', 'STILL HIDES THIS', T.W5 + .1, DUR + 1);
-    Tx('tk', '3 SECRETS', T.tk0 + .3, T.F1.drop + .3); Tx('tk2', 'GTA 5 · 2013', T.tk0 + .3, T.F1.drop + .3);
+    Tx('tk', '3 SECRETS', T.tk0 + .3, T.F1.drop + .3); Tx('tk2', 'GTA 5 · 2013', T.tk0 + .3, T.F1.drop + .3); Tx('tkSM', 'STORY MODE', T.tk0 + .3, T.F1.drop + .3);
     [T.F1, T.F2, T.F3].forEach(function (F, i) { Tx('f' + i, String(i + 1), F.drop + .1, foilState(0, F).end + .12); });
     Tx('fm', 'FIRST MISSION', T.ch1a + .1, T.ch1out); Tx('ny', 'NORTH YANKTON', T.ch1b + .1, T.ch1out);
     Tx('our1', 'OUR DRAWING', T.our1 + .1, T.F2.drop - .05);
@@ -994,13 +1019,13 @@
     Tx('mc', 'MOUNT CHILIAD', T.F2.sc + SDUR, T.mz - .5); Tx('hp', "GTA 5'S HIGHEST PEAK", T.F2.sc + SDUR, T.mz - .5);
     Tx('jq', '?', T.jq + .1, T.n3 + .2);
     Tx('ourM', 'OUR DRAWING · AS PC GAMER DESCRIBES IT', T.ourM + .1, T.F3.drop + .3);
-    Tx('fan', 'FAN THEORIES', T.fan + .1, T.F3.drop + .12);
+    Tx('fan', 'FAN THEORIES', T.n1 + .3, T.F3.drop + .1); Tx('exr', 'EX-ROCKSTAR DEV, 2024', T.n2 + .3, T.F3.drop + .1);
     Tx('n44a', '44,000 JOINED THE HUNT', T.n44 + .1, T.F3.drop + .15); Tx('n44c', 'SUBREDDIT · GAMESRADAR, NOV 2024', T.n44 + .1, T.F3.drop + .15);
     Tx('n1', '100% COMPLETION?', T.n1 + .3, T.F3.drop + .1); Tx('n2', 'JUST TO MESS WITH YOU?', T.n2 + .3, T.F3.drop + .1);
     Tx('gordo', 'MOUNT GORDO', T.ch3 + .1, T.gz + .2); Tx('ourG', 'OUR DRAWING', T.gz + .55, T.E0 - .1);
     Tx('pm', '11 PM', T.c11 + .1, T.clkOut); Tx('gt', 'GAME TIME', T.c11 + .2, T.clkOut);
     Tx('jock', 'JOCK', T.jock + .38, T.mid + .1);
-    Tx('husb', 'HER HUSBAND', T.husb + .1, T.E0);
+    Tx('husb', 'HER HUSBAND', T.husb + .1, T.E0); Tx('plate', 'GO CHECK · 11 PM–MIDNIGHT · STORY MODE', T.plate + .2, T.E0 - .1);
     Tx('cal', 'GTA 6 NOV 19 2026', T.cal + .3, T.W5); Tx('plat', 'PS5 · XBOX SERIES X|S', T.cal + .3, T.W5);
     Tx('e6', 'GTA 6 · ???', T.panIn + .2, T.W5);
     Tx('yes', 'YES', T.yes + .1, T.W5); Tx('nope', 'NO', T.yes + .2, T.W5);
@@ -1020,7 +1045,8 @@
     G('q', after('hook'), 'pop', .35, 1);
     /* jury r1: the ticket (3 SECRETS) drops in small under the headline on "secrets" and grows to full size when the headline leaves */
     T.tk0 = T.sec - .12; T.dim0 = start('ask') - .45;
-    T.pan = [at('ask', 'three'), at('ask', 'you'), at('ask', 'go')];
+    /* jury r3: the three panels are slotted by 2.2 s, 0.12 s apart, so the card is never empty */
+    T.pan = [0, 1, 2].map(function (i) { return T.sec + .2 + i * .12; });
     T.pan.forEach(function (p, i) { G('pan' + i, p + .08, 'pop', .08, .7); });
     T.coinIn = at('ask', 'yourself.');
     /* one: foil SECRET 1 (ice-blue), scraped; the bridge over the frozen creek */
@@ -1051,7 +1077,7 @@
     T.ch3 = at('gho1', 'climb'); T.clk0 = at('gho1', 'gordo') - .3; T.c11 = at('gho1', '11');
     G('c11', wend('gho1', 'pm.') + .1, 'thock', .5, 1);
     T.gz = start('gho2') - .1; T.gh0 = start('gho2') - .2; G('ghost', start('gho2') - .3, 'whoosh', .3, 1, { m: .05 });
-    T.clkOut = at('gho2', 'rock,');
+    T.clkOut = at('gho2', 'rock,'); T.plate = T.clkOut + .15;
     T.jock = at('gho2', 'jock.'); G('brush', after('gho2'), 'brush', .35, 1.2, { dur: .3, trim: 1.5 });
     T.husb = at('gho3', 'her') - .2; T.arr = at('gho3', "husband's"); G('husb', after('gho3'), 'pop', .35, 1);
     /* jury r1: midnight. The clock strikes 12 with a tock in the gap before "GTA 6"; the ghost and JOCK go with it (BRIEF fact 8) */

diff --git a/film/gta-secrets/jury-r3.md b/film/gta-secrets/jury-r3.md
@@ -1,0 +1,62 @@
+# gta-secrets: jury r3 (independent, fresh eyes)
+
+Film `out/gta-secrets-vo.mp4`: 1080x1920, 30 fps, 39.0 s. Juried 2026-11-15. I scored before reading anything from r1/r2. The only r2 context I used is the BRIEF.md log, and only to check which fixes landed.
+
+## Measurements
+- Loudness (ebur128): **-14.1 LUFS integrated**, LRA 3.8 LU, true peak **-2.5 dBFS**. OK.
+- blackdetect (d 0.1 s): **no black frames**. silencedetect (-40 dB, 0.4 s): no dead-air gaps.
+- pace.txt: 2 hard cuts, motion 0-1 s 0.568, 0-3 s 0.858, median 0.26, 1.5 % still frames. OK, no frozen stretch, so Hook is not capped.
+- Whisper: `faster_whisper` and `whisper` are **not installed** here, so I could not check what the voice actually says. Voice is judged from script.json and the timed captions. That stays an open risk until someone runs a listen check: does Ming say "Jock" and not "Jack", and "Chilly add"?
+- Frames read: 0.0, 1.0, 2.5, then every 1.5 s to 38.5 and 38.9, plus poster.jpg.
+
+## Delta / SAFE-EDIT checks
+| Check | Result |
+|---|---|
+| Frame 0 ≤ 6 words, GTA early | ✓ `GTA 5 / STILL HIDES THIS` (5 words, GTA 5 first) |
+| "GTA" in first spoken second | ✓ "G T A five still hides secrets" at 0.2 s |
+| No Rockstar footage, logo or key art | ✓ everything is our own flat paper drawings, tagged `OUR DRAWING` |
+| Rumors and theories labeled | ✓ mostly: `FAN THEORIES` chip with both readings as questions. ⚠ `JUST TO MESS WITH YOU?` is an ex-Rockstar designer's remark, but it sits under the FAN THEORIES chip (see fix 5) |
+| Every number sourced in BRIEF.md | ✓ 3 secrets, 2013, 11 PM, 44,000 (fact 11, dated), Nov 19 2026, "over a decade" (GamesRadar+ 2025) |
+| GTA 6 date | ✓ `NOV 19 2026 · PS5 · XBOX SERIES X\|S` matches fact 10 |
+| Trailer or radio music, leaks, endings | none |
+
+None of the jury-checklist fail conditions apply.
+
+## Scores
+| # | Criterion | Score | Why |
+|---|---|---|---|
+| 1 | Hook | **7.5** | The frame 0 still works: a pale ice sheet, a creeping crack, a dark arms-up figure and the search phrase in 5 words. But the silhouette already reads plainly as a big-headed alien with eyes, so the mystery is half spent. Then 2.5 s is a **blank `3 SECRETS` card** with the alien's legs sticking out under it, so it reads as a sign on stilts. The second read in the hook window is empty. |
+| 2 | Retention | **7.0** | Something changes about every 1.5 s, and the 1/2/3 numerals give a re-hook every 8-11 s. Weak spots: each numeral card (5.5, 13.0, 25.0 s) is a ~1 s grey-lilac title beat with nothing in it but a digit and a coin. The mural holds one composition from 17.5 to 23.5 s, and at ~20.5 the top 60 % of the frame is empty brick between captions. |
+| 3 | Clarity | **8.0** | Three items, one place each, map chips, captions match the voice. A 14-year-old gets it. One small slip: the `100% COMPLETION?` / `JUST TO MESS WITH YOU?` notes are about ~22 px tall and sit over the mural boxes, so they don't read in one pass. |
+| 4 | Truth | **8.5** | Every spoken line matches the sources: alien under the ice in the first mission, can't break it, the mural as PC Gamer describes it with "maybe" on the jetpack, past-tense "argued for over a decade", the ghost at 11 PM, Jock in blood, Jock as her husband, Nov 19. Docked for two things. (a) Ben Hinchliffe's remark is filed under `FAN THEORIES`, which mislabels its source. (b) "GTA 5 *still* hides" is present tense on all versions, but BRIEF.md's patch caveat says no source tests the 2022/2025 versions. The film should carry a `STORY MODE` chip at least. |
+| 5 | Motion and design craft | **7.0** | The paper look is consistent and the scratch-off panels, coin, bridge and ghost read as hand-made. Flaws: the poster/ghost scene leaves a **dead navy band from y ≈ 1515 to 1920** (21 % of the frame). The `OUR DRAWING` tag sits on the alien's torso at 8.5-11.5 s. There are the stilt legs at 2.5 s. Theory notes are under 36 px. Nearly every beat is the same centred single object again (LESSONS gta-longestwait). The lighthouse beam runs straight through the clock at 29-33 s. |
+| 6 | Voice and sound | **7.0** | The hook is in the first words and the mix is at spec. I couldn't hear-check it (no Whisper here). The script has hero pauses after "ice", "Jock" and "name", but nothing proves the SFX land in them. The end line has 12 spoken words in 5 s ("Will it have a ghost? Yes or no?") and runs straight into the loop with little air. Scored conservatively. |
+| 7 | Loop and ending | **7.5** | The visual loop is clean: 38.5-39.0 s wipes back to the exact frame 0 composition, and the little ghost peeking behind `GTA 6 · ???` is a nice touch. The spoken loop is weaker: "Yes or no?" → "GTA 5 still hides secrets" is a non sequitur, and it changes the subject from GTA 6 back to GTA 5. |
+| 8 | Shareability | **7.5** | The ghost over `JOCK` + `HER HUSBAND` is a real send-to-a-friend frame, and the poster carries it. "Go check at 11 PM tonight" is never said or shown as a call to action, though, so the DM-able task isn't spelled out. |
+
+**Overall: 7.5** (60.0 / 8) · **Truth 8.5**
+**Verdict: fix then post.** The channel gate (overall ≥ 7.0 and Truth ≥ 8.5) passes, but only at the floor. The factory rule says 7.0-7.9 is fix then post.
+
+The r2 fixes listed in the BRIEF log all landed:
+- mur3 is past tense ("FANS ARGUED FOR OVER A DECADE.").
+- The 44,000 plate is dated (`SUBREDDIT · GAMESRADAR, NOV 2024`) and not spoken.
+- Both readings are shown as questions.
+- `OUR DRAWING` is on the ghost scene.
+- The foil hold shows the numeral only.
+
+## Fixes, ranked by impact
+1. **2.0-3.2 s: blank card with stilt legs.** The `3 SECRETS` card is empty until ~3.3 s, and the alien silhouette's legs show below it. Fade the alien out completely (opacity 0 by 1.9 s) before the card lands. Have the three `SECRET 1/2/3` foil panels already slotted at 2.2 s, dropping in 0.12 s apart, so the hook window never shows an empty card.
+2. **29.0-33.5 s and the poster: dead bottom band.** y 1515-1920 is a flat navy floor. Extend the green hill and rock base down to y 1700 and move the ghost+rock group down ~150 px. Put a takeaway plate in y 1450-1650 (left of x 930) that reads `GO CHECK · 11 PM–MIDNIGHT · STORY MODE` (≥ 44 px). This is the wow fix: it gives viewers the "go check tonight" task the brief promised, it gives the poster a sendable instruction, and it fills the empty band.
+3. **20.0-23.5 s: mural theory notes.** `100% COMPLETION?` and `JUST TO MESS WITH YOU?` are about 22 px and cover the mural boxes. Move them off the mural to either side as two ≥ 40 px cards on red string. Relabel the chip so the source is right: keep `FAN THEORY` for 100% COMPLETION and give the other one `EX-ROCKSTAR DEV (DIDN'T MAKE IT)`, or drop it. This is the Truth point.
+4. **Whole film: version caveat.** Add a small `STORY MODE` chip next to `GTA 5 · 2013` on the 3 SECRETS card (2.2-4.8 s), so "still hides" isn't read as a claim that it was verified on today's patch. It costs nothing and lifts Truth.
+5. **5.0-6.2, 12.8-14.0, 24.6-25.6 s: grey numeral beats.** Each 1/2/3 card is a lone digit on a flat lilac or grey field for ~1 s. Show the place chip and the first prop silhouette under the numeral during the foil hold (e.g. the bridge outline under "1", the summit station under "2", the lighthouse under "3"). Then the beat is a preview instead of a pause, and it stops repeating the centred-single-object layout.
+6. **8.4-11.8 s: tag over the alien.** `OUR DRAWING` sits on the alien's torso. Move it to bottom-left (x 110, y ~1350) as on the ghost scene, and keep the alien's whole body clear.
+7. **33.9-39.0 s: end line and loop.** The 12 words in about 5 s crowd the loop. Cut to "GTA 6: November 19th. Will it have a ghost?" (8 words). Hold the YES/NO chips silent for 0.6 s. Let the panel scrape reveal the frame-0 ice so the cut back to "GTA 5 still hides secrets" feels like an answer ("…here's one it already has").
+8. **0.0-1.5 s: frame 0 gives the answer away.** The silhouette has visible eye whites and a clear alien outline. Blur it more (σ ≈ 2x) and drop the eye highlights until `ice2` at 7.4 s, as the BRIEF asked ("dark, unreadable shape"). The viewer should guess, not know.
+9. **29-33 s: lighthouse beam through the clock.** The beam ends exactly on the clock face. Shorten the beam or move the clock to x ~760, y ~420, out of its path.
+10. **Before posting: listen check.** Run the Whisper in-mix check on the PC. Confirm "Jock" (not "Jack"), "Chiliad", and that the coin-scrape, ting and brush SFX peak ≥ 3 dB under the neighbouring words (LESSONS gta-vicecity). This jury could not verify the sound.
+
+## Generic or AI-made
+- Centred single object, cream caption strip at top, chip below it: this layout repeats on almost every beat (ice, mural, ghost, calendar). That is the house template, but LESSONS gta-longestwait already flagged it. No full point is deducted, because the scratch-off panels and props vary.
+- The confetti flecks on the end calendar are a stock "launch" flourish. They don't belong to the ghost or secret world. Use falling ice flecks or scratch-off foil dust instead.
+- The flat grey alien (big head, almond eyes) is the default "alien" glyph. It's acceptable, since the brief deliberately avoids any film likeness, but it is the least hand-made prop in the film.

diff --git a/film/gta-secrets/seo.md b/film/gta-secrets/seo.md
@@ -1,0 +1,45 @@
+# SEO and posting text: GTA 5 Still Hides These 3 Secrets
+
+Channel: **Delta** (YouTube @deltaisac) only. YouTube Shorts; TikTok is paused for Delta. Upload `gta-secrets-vo.mp4` (voice + sound effects, no music, 39.0 s). Altered content: No. Made for kids: No. Written 2026-11-15 for a US audience. Facts and sources: `BRIEF.md` (re-checked live 2026-11-15: rockstargames.com/VI, Game Informer, PC Gamer, GamesRadar+). Jury: see backlog.csv row 31.
+
+Slot: Sun 2026-11-15 23:00 ET (2026-11-16 04:00 UTC), via the PC autopost queue.
+
+## YouTube Shorts title
+GTA 5 Still Hides These 3 Secrets 👻
+
+## Cover text (poster frame, the ghost over JOCK)
+GTA 5's 11 PM GHOST
+
+## Description
+Thirteen years later, GTA 5 still hides things you can go and find yourself in story mode.
+
+1. In the very first mission in North Yankton, an alien is frozen under the ice by the train bridge. Shooting the ice does nothing.
+2. Ride the cable car to the top of Mount Chiliad, GTA 5's highest mountain. Inside the station is a mural: a glowing eye, connected boxes, and what looks like a UFO, an egg and maybe a jetpack. Fans argued about what it means for over a decade.
+3. Climb Mount Gordo at 11 PM game time. A ghost appears on the rock, and the name Jock is written in blood. Jock is her husband's name. She is gone at midnight.
+
+GTA 6 launches November 19, 2026 on PS5 and Xbox Series X|S. Will it have a ghost?
+
+The drawings in this Short are our own, made from the press descriptions below.
+
+Sources:
+- Game Informer, How To Find The Ghost In Grand Theft Auto V (Sept 25, 2013): https://www.gameinformer.com/b/features/archive/2013/09/25/how-to-find-the-ghost-in-grand-theft-auto-v.aspx
+- PC Gamer, Help us solve GTA 5's huge hidden conspiracy (April 15, 2015): https://www.pcgamer.com/help-us-solve-gta-5s-huge-hidden-conspiracy/
+- PC Gamer, The latest theories from GTA 5's UFO hunters (May 5, 2015): https://www.pcgamer.com/the-latest-theories-from-gta-5s-ufo-hunters/
+- PC Gamer, GTA 5's UFO hunters: a community in turmoil (Feb 2, 2016): https://www.pcgamer.com/gta-5s-ufo-hunters-a-community-in-turmoil/
+- GamesRadar+, GTA 5 Easter eggs: https://www.gamesradar.com/gta-5-easter-eggs/
+- GamingBolt, 15 best GTA 5 secrets (Dec 12, 2016): https://gamingbolt.com/15-best-grand-theft-auto-5-secrets-you-probably-dont-know/3
+- IBTimes UK, GTA 5 hidden secrets (Oct 29, 2013): https://www.ibtimes.co.uk/gta5-hidden-secrets-easter-eggs-references-videos-517933
+- Rockstar Games, GTA VI release date: https://www.rockstargames.com/VI
+
+Made with our own graphics. No Rockstar footage. Not affiliated with Rockstar Games or Take-Two.
+
+#GTA5 #GTA6 #GTA5Secrets #EasterEggs #Shorts
+
+## Keywords
+GTA 5 secrets · GTA 5 easter eggs · GTA 5 ghost · GTA 5 alien in ice · Mount Chiliad mural · GTA 6
+
+## Playlist
+GTA History
+
+## Pinned comment
+Which one are you checking tonight: the alien, the mural or the 11 PM ghost? 1, 2 or 3?

diff --git a/film/gta-secrets/BRIEF.md b/film/gta-secrets/BRIEF.md
@@ -111,3 +111,4 @@ Sound (own SFX, no music): ice creak under frame 0, coin scrape ×3 per reveal, 
 - 2026-11-10 (researcher): three secrets picked for two or more reputable press sources each (Game Informer, PC Gamer, GamesRadar+, IBTimes UK, TheGamer, GamingBolt); wiki only as support. GTA 6 date re-checked on rockstargames.com/VI. Hook kept from the backlog. scriptlint OK.
 - 2026-11-10 (director, jury r1 fixes): fact 11 added (GamesRadar+ 2024-11-05, 44,000-member subreddit; number read in the article itself). Script: mur3 now "But what it means? 44,000 fans still argue." (the number spoken, so the note gets its read time without a silent gap); end now "GTA 6 lands November 19th. Will it have a ghost? Yes or no?" (Q5). Stamp reworded `NO CRACK` (fact 3). Midnight fade of ghost and JOCK uses fact 8.
 - 2026-11-10 (director): **r2 fixes applied, held** (jury r2 7.2 / Truth 8.0; held after two rounds, ready for a re-jury). mur3 re-voiced "But what it means? Fans argued for over a decade."; mur2 re-said "A mural: a UFO, an egg, and maybe a jetpack."; the 44,000 note is past tense and dated (fact 11), off the mural; theory notes replaced with the two sourced readings (fact 7); foil hold 0.4 s with the numeral only; OUR DRAWING on the ghost scene.
+- 2026-11-15 (director): **jury r3 fixes applied, picture only** (r3 7.5 / Truth 8.5, pass; channel rule applies fixes anyway; voice not re-synthesized). Frame-0 alien blurred 2x with no eye highlights, faded out by 1.9 s; the three SECRET panels slot in 0.12 s apart and are in place by 2.2 s; `STORY MODE` chip beside `GTA 5 · 2013` on the 3 SECRETS card. Mural board steps back to the left and the two readings hang beside it at full size (54 px) on red string, each with its own source header: `FAN THEORIES` over `100% COMPLETION?`, `EX-ROCKSTAR DEV, 2024` over `JUST TO MESS WITH YOU?` (Hinchliffe, fact 7). Night scene: ghost and rock 150 px lower, JOCK on a standing stone beside her, the bottom band filled with a grass bank and stones, and a takeaway plate `GO CHECK · 11 PM–MIDNIGHT` / `STORY MODE` (56/44 px, y ≈ 1300–1425, above the 1450 caption overlay, so it is not at the jury's suggested y 1450–1650). Lighthouse beam shortened and the clock moved right, out of its path. `OUR DRAWING` on the ice scene moved to bottom left, off the alien. End-card confetti replaced with ice flecks and foil dust. Not done: r3 fix 5 (previews under the numerals) and fix 7 (voice).
